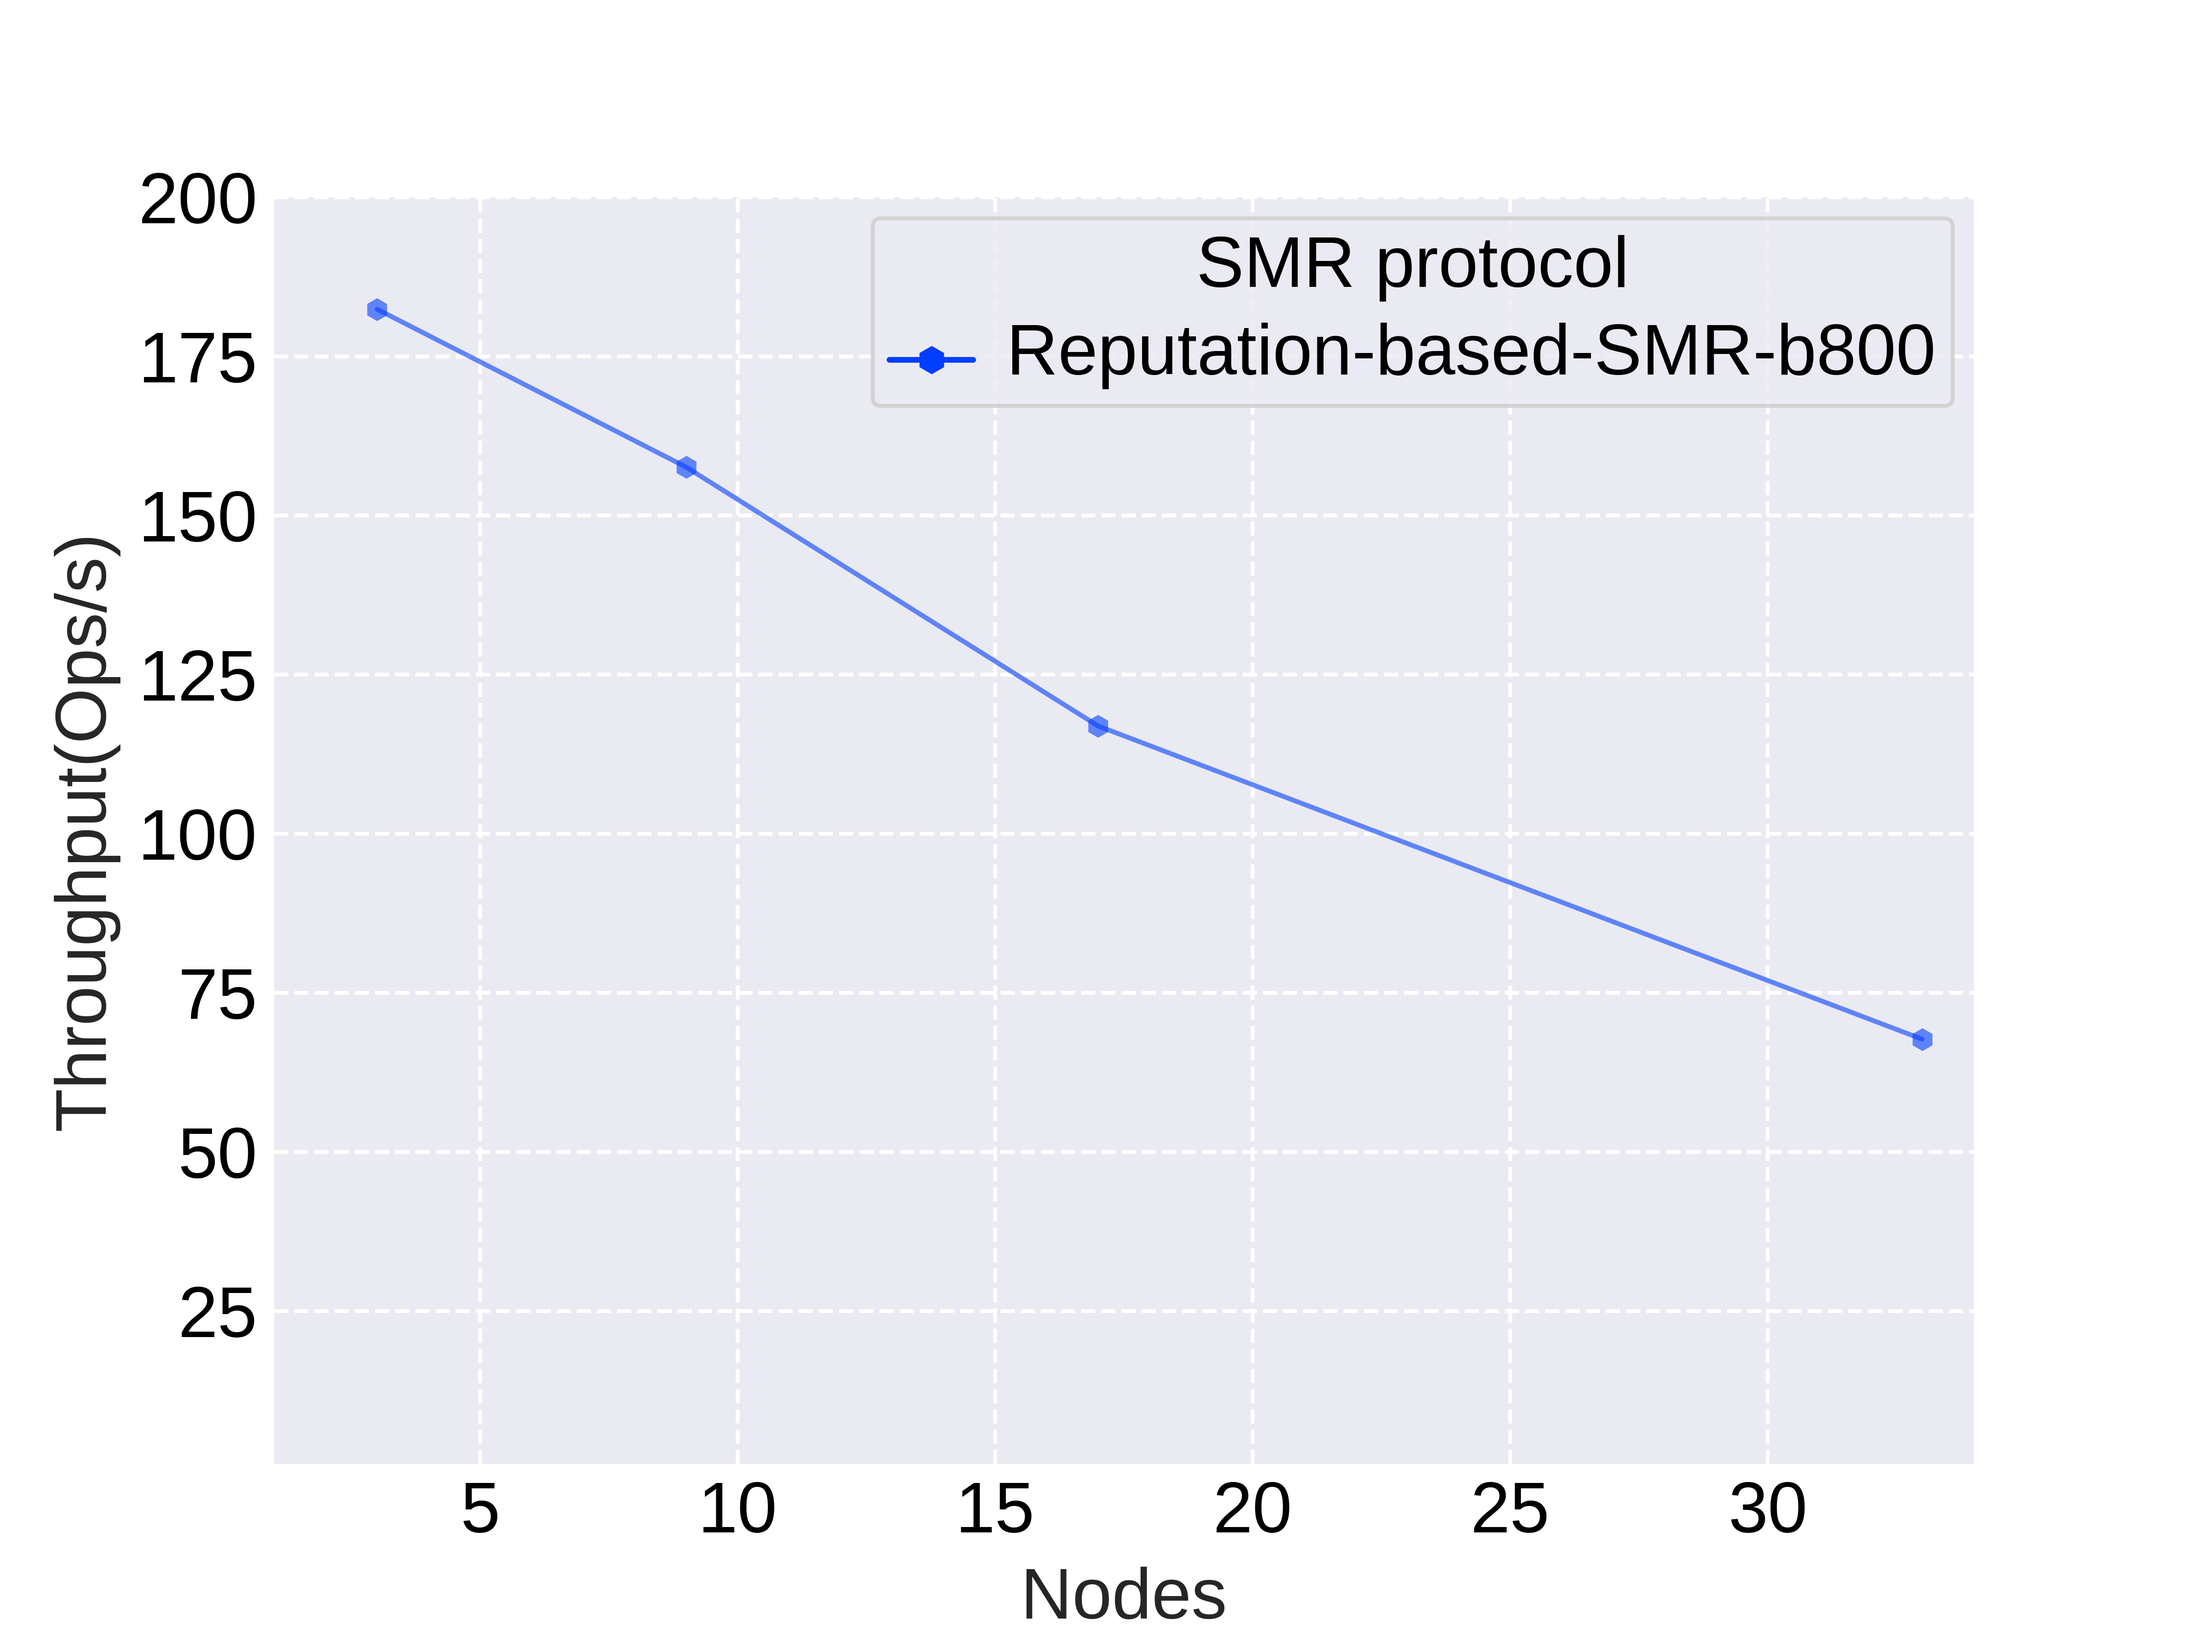
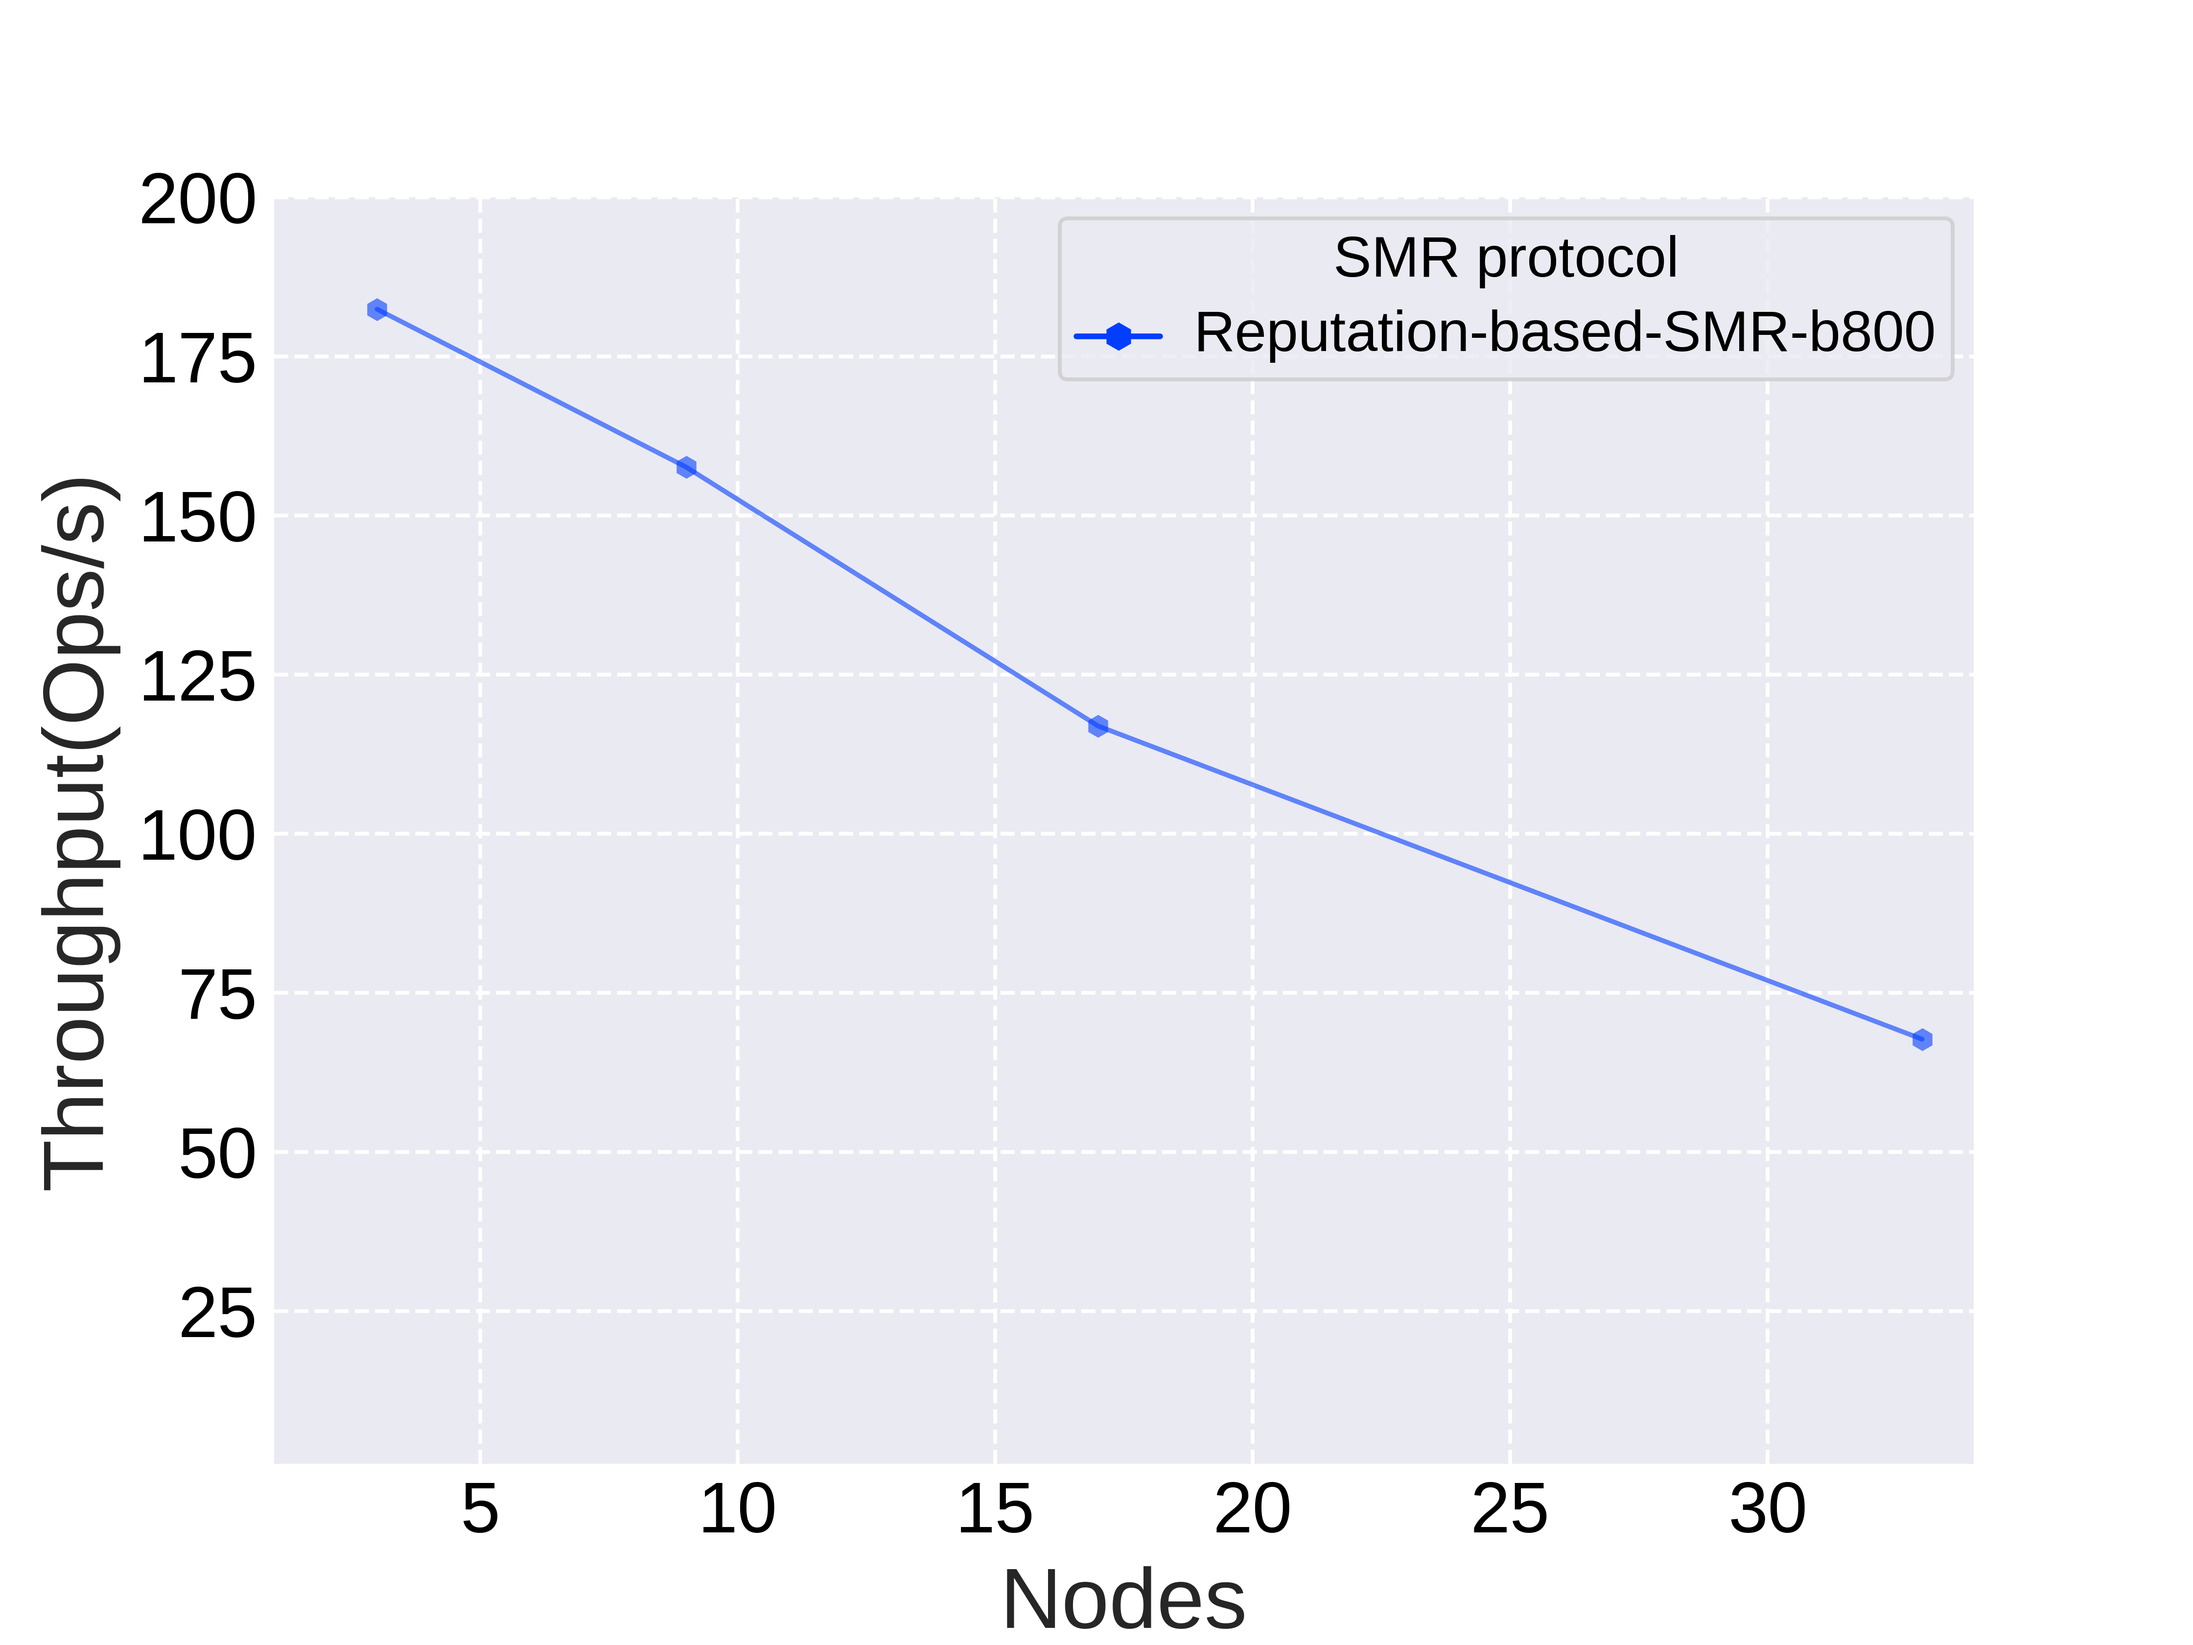
xx

Changed region(s): [[0.4062, 0.125, 0.9062, 0.25], [0.0, 0.2812, 0.0625, 0.7188], [0.4375, 0.9375, 0.5625, 1.0]]

diff --git a/paperpicture/1.py b/paperpicture/1.py
@@ -24,7 +24,7 @@ flights.head()
 # 长型数据多折线图
 dict1 = {'axes.axisbelow': True,  #轴在图形的下面
 'axes.edgecolor': 'black',	#边框的颜色
-'axes.facecolor': '#EAEAF2',	#背景颜色
+'axes.facecolor': '#EAEAF1',	#背景颜色
 'axes.grid': True,	#是否显示网格
 'axes.labelcolor': '.15',
 'axes.linewidth': 0.0,
@@ -36,7 +36,7 @@ dict1 = {'axes.axisbelow': True,  #轴在图形的下面
 'sans-serif'],
 'grid.color': 'white',
 'grid.linestyle': '--',
-'image.cmap': 'Greys',
+# 'image.cmap': 'Greys',
 'legend.frameon': True,
 'legend.numpoints': 1,
 'legend.scatterpoints': 1,
@@ -60,20 +60,28 @@ sns.despine(fig=None, ax=None,
 palette = sns.color_palette("bright")
 sns.set_palette(palette)
 fig = sns.lineplot(data=flights,x='Throughput(Ops/s)',y='Latency(ms)',dashes=False,sort=True,
-errorbar=None,hue='BlockSize',style='BlockSize',markers=['^','s','o','h','H','d','D'] ,linewidth = 0.7,
+errorbar=None,hue='BlockSize',style='BlockSize',markers=['^','s','o','h','H','d','D'] ,linewidth =1 ,
 orient='y', markeredgecolor = 'none',alpha = 0.6)
 #alpha 设置透明度
 #mark空心，mark见matlop
 #markerfacecolor='none'
-fig.set_xlim(10,650) 
-fig.set_ylim(2900,4500)
+fig.set_xlim(10,900) 
+fig.set_ylim(2500,4500)
 #设置x,y轴label大小
 # fig.xaxis.label.set_size(15)
 #科学计数法
 # plt.yscale('log')
-plt.setp(fig.get_legend().get_texts(), fontsize='5') # for legend text
-
-plt.setp(fig.get_legend().get_title(), fontsize='5') # for legend title
+fig.xaxis.label.set_size(18)
+fig.yaxis.label.set_size(18)
+#设zhi刻度大小
+plt.xticks(fontsize=15, rotation=0)
+plt.yticks(fontsize=15, rotation=0)
+#设置标签大小
+# fig.set_axis_labels(fontsize=20)
+#科学计数法
+# plt.yscale('log')
+plt.setp(fig.get_legend().get_texts(), fontsize='11') # for legend text
+plt.setp(fig.get_legend().get_title(), fontsize='11') # for legend title
 lineplot_figure = fig.get_figure()
 lineplot_figure.savefig(fig_path, dpi = 400)
 plt.show()

diff --git a/paperpictureNew/5.py b/paperpictureNew/5.py
@@ -71,8 +71,8 @@ fig.set_ylim(4000,8500)
 # fig.xaxis.label.set_size(15)
 #科学计数法
 # plt.yscale('log')
-fig.xaxis.label.set_size(15)
-fig.yaxis.label.set_size(15)
+fig.xaxis.label.set_size(18)
+fig.yaxis.label.set_size(18)
 #设zhi刻度大小
 plt.xticks(fontsize=15, rotation=0)
 plt.yticks(fontsize=15, rotation=0)
@@ -80,8 +80,8 @@ plt.yticks(fontsize=15, rotation=0)
 # fig.set_axis_labels(fontsize=20)
 #科学计数法
 # plt.yscale('log')
-plt.setp(fig.get_legend().get_texts(), fontsize='15') # for legend text
-plt.setp(fig.get_legend().get_title(), fontsize='15') # for legend title
+plt.setp(fig.get_legend().get_texts(), fontsize='12') # for legend text
+plt.setp(fig.get_legend().get_title(), fontsize='12') # for legend title
 lineplot_figure = fig.get_figure()
-lineplot_figure.savefig(fig_path, dpi = 400)
+lineplot_figure.savefig(fig_path, dpi = 700)
 plt.show()

diff --git a/paperpictureNew/3.1.py b/paperpictureNew/3.1.py
@@ -68,8 +68,8 @@ orient='x', markeredgecolor = 'none',alpha = 0.6)
 fig.set_xlim(1,34) 
 fig.set_ylim(4000,8500)
 #设置x,y轴label大小
-fig.xaxis.label.set_size(15)
-fig.yaxis.label.set_size(15)
+fig.xaxis.label.set_size(18)
+fig.yaxis.label.set_size(18)
 #设zhi刻度大小
 plt.xticks(fontsize=15, rotation=0)
 plt.yticks(fontsize=15, rotation=0)
@@ -77,8 +77,8 @@ plt.yticks(fontsize=15, rotation=0)
 # fig.set_axis_labels(fontsize=20)
 #科学计数法
 # plt.yscale('log')
-plt.setp(fig.get_legend().get_texts(), fontsize='15') # for legend text
-plt.setp(fig.get_legend().get_title(), fontsize='15') # for legend title
+plt.setp(fig.get_legend().get_texts(), fontsize='12') # for legend text
+plt.setp(fig.get_legend().get_title(), fontsize='12') # for legend title
 lineplot_figure = fig.get_figure()
 lineplot_figure.savefig(fig_path, dpi = 700)
 plt.show()

diff --git a/paperpictureNew/3.py b/paperpictureNew/3.py
@@ -71,14 +71,14 @@ fig.set_ylim(1,200)
 # fig.xaxis.label.set_size(15)
 #科学计数法
 # plt.yscale('log')
-fig.xaxis.label.set_size(15)
-fig.yaxis.label.set_size(15)
+fig.xaxis.label.set_size(18)
+fig.yaxis.label.set_size(18)
 #设zhi刻度大小
 plt.xticks(fontsize=15, rotation=0)
 plt.yticks(fontsize=15, rotation=0)
-plt.setp(fig.get_legend().get_texts(), fontsize='15') # for legend text
+plt.setp(fig.get_legend().get_texts(), fontsize='12') # for legend text
 
-plt.setp(fig.get_legend().get_title(), fontsize='15') # for legend title
+plt.setp(fig.get_legend().get_title(), fontsize='12') # for legend title
 lineplot_figure = fig.get_figure()
 lineplot_figure.savefig(fig_path, dpi = 700)
 plt.show()

diff --git a/paperpictureNew/7.py b/paperpictureNew/7.py
@@ -71,8 +71,8 @@ fig.set_ylim(1,200)
 # fig.xaxis.label.set_size(15)
 #科学计数法
 # plt.yscale('log')
-fig.xaxis.label.set_size(15)
-fig.yaxis.label.set_size(15)
+fig.xaxis.label.set_size(18)
+fig.yaxis.label.set_size(18)
 #设zhi刻度大小
 plt.xticks(fontsize=15, rotation=0)
 plt.yticks(fontsize=15, rotation=0)
